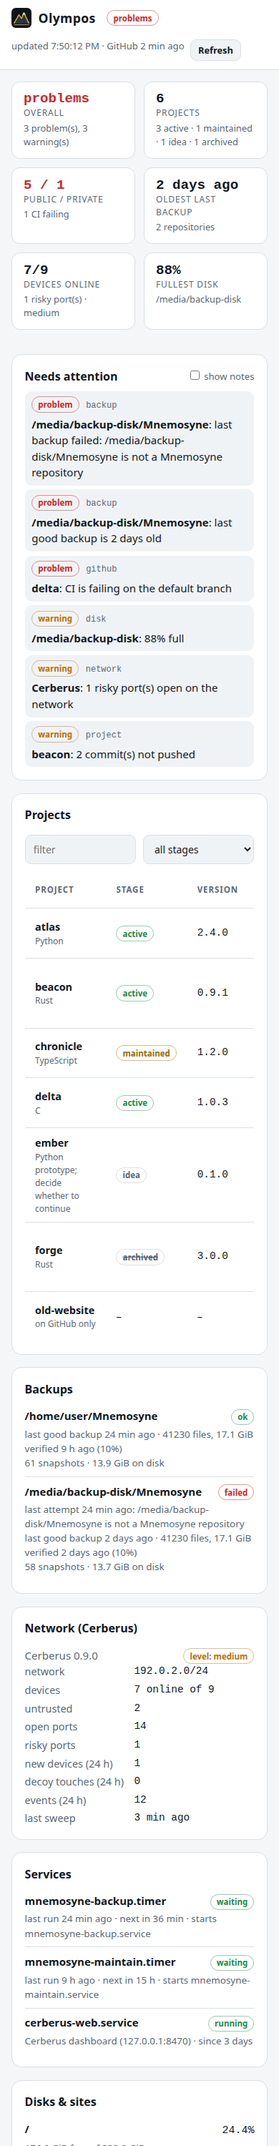
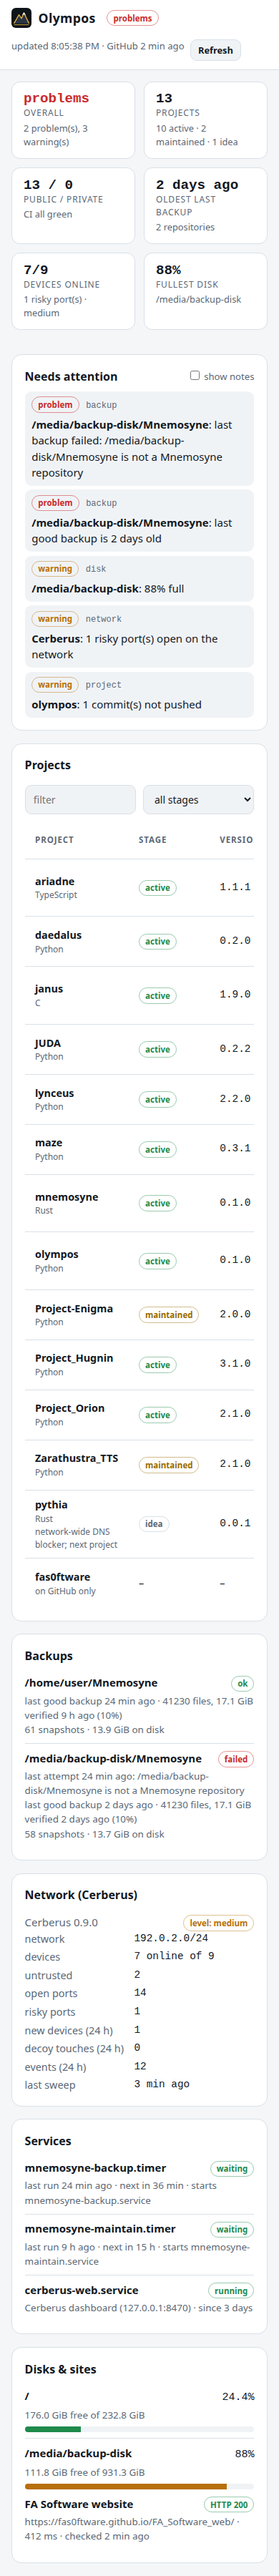
Demo data: the author's own public projects instead of made-up names
Names, languages, versions and roadmap items match the public repositories;
paths, times, backups and the network stay fictional. No project is shown
with a failing CI, so the README does not misreport a real repository.

diff --git a/olympos/demo.py b/olympos/demo.py
@@ -15,15 +15,15 @@ def _iso(now: datetime, **delta) -> str:
 def _project(now, name, lang, version, stage, commit, **extra):
     p = {"name": name, "path": f"/home/user/projects/{name}", "language": lang, "version": version, "branch": "main",
          "dirty": 0, "ahead": 0, "behind": 0, "upstream": True, "last_commit": _iso(now, **commit),
-         "last_subject": "Update README", "commits": 42, "remote": f"example/{name}", "next_step": "",
+         "last_subject": "Update README", "commits": 42, "remote": f"fas0ftware/{name}", "next_step": "",
          "stage": stage, "stage_source": "activity", "note": "", "errors": []}
     p.update(extra)
     return p
 
 
 def _repo(now, name, visibility="PUBLIC", ci="SUCCESS", **extra):
-    r = {"owner": "example", "name": name, "visibility": visibility, "archived": False,
-         "pushed_at": _iso(now, hours=5), "url": f"https://github.com/example/{name}", "ci": ci,
+    r = {"owner": "fas0ftware", "name": name, "visibility": visibility, "archived": False,
+         "pushed_at": _iso(now, hours=5), "url": f"https://github.com/fas0ftware/{name}", "ci": ci,
          "open_prs": 0, "open_issues": 0}
     r.update(extra)
     return r
@@ -32,23 +32,29 @@ def _repo(now, name, visibility="PUBLIC", ci="SUCCESS", **extra):
 def snapshot(now: datetime | None = None) -> dict:
     now = now or datetime.now(timezone.utc)
     s = Settings(backup_max_age_hours=3, check_max_age_days=3, disk_warn_percent=85)
+    # The author's own public projects (names, versions, roadmaps as on GitHub); paths, times
+    # and the machine around them are made up.
     projects = [
-        _project(now, "atlas", "Python", "2.4.0", "active", {"hours": 3},
-                 next_step="Export reports as PDF"),
-        _project(now, "beacon", "Rust", "0.9.1", "active", {"days": 2}, ahead=2, dirty=3,
-                 next_step="Windows support"),
-        _project(now, "chronicle", "TypeScript", "1.2.0", "maintained", {"days": 40},
-                 next_step="Phase 3: sync between devices"),
-        _project(now, "delta", "C", "1.0.3", "active", {"days": 1}),
-        _project(now, "ember", "Python", "0.1.0", "idea", {"days": 6}, remote="", upstream=False,
-                 stage_source="config", note="prototype; decide whether to continue"),
-        _project(now, "forge", "Rust", "3.0.0", "paused", {"days": 200}),
+        _project(now, "ariadne", "TypeScript", "1.1.1", "active", {"hours": 2},
+                 next_step="Phase 2: milestones (Category → Project → Sub-milestone, monthly/weekly/daily views)"),
+        _project(now, "daedalus", "Python", "0.2.0", "active", {"days": 1}),
+        _project(now, "janus", "C", "1.9.0", "active", {"days": 1},
+                 next_step="Integration as the scanning engine of Lynceus (via --json; Cerberus already uses it)"),
+        _project(now, "JUDA", "Python", "0.2.2", "active", {"days": 4}),
+        _project(now, "lynceus", "Python", "2.2.0", "active", {"days": 1}, next_step="Docker image"),
+        _project(now, "maze", "Python", "0.3.1", "active", {"days": 6}),
+        _project(now, "mnemosyne", "Rust", "0.1.0", "active", {"hours": 1},
+                 next_step="Packs: many small chunks in one file (fewer files on slow USB sticks and network shares)."),
+        _project(now, "olympos", "Python", "0.1.0", "active", {"minutes": 20}, ahead=1, dirty=2,
+                 next_step="History: keep a small daily record and draw how backups, CI and disks did over weeks."),
+        _project(now, "Project-Enigma", "Python", "2.0.0", "maintained", {"days": 35}),
+        _project(now, "Project_Hugnin", "Python", "3.1.0", "active", {"days": 2}),
+        _project(now, "Project_Orion", "Python", "2.1.0", "active", {"days": 2}),
+        _project(now, "Zarathustra_TTS", "Python", "2.1.0", "maintained", {"days": 20}),
+        _project(now, "pythia", "Rust", "0.0.1", "idea", {"hours": 3}, remote="", upstream=False,
+                 stage_source="config", note="network-wide DNS blocker; next project"),
     ]
-    repos = [
-        _repo(now, "atlas"), _repo(now, "beacon", open_prs=1), _repo(now, "chronicle", "PRIVATE"),
-        _repo(now, "delta", ci="FAILURE"), _repo(now, "forge", ci="", archived=True),
-        _repo(now, "old-website", ci=""),
-    ]
+    repos = [_repo(now, p["name"]) for p in projects if p["remote"]] + [_repo(now, "fas0ftware", ci="")]
     units = [
         {"name": "mnemosyne-backup.timer", "description": "Mnemosyne backup every hour", "load": "loaded",
          "active": "active", "sub": "waiting", "result": "success", "enabled": "enabled",
@@ -82,7 +88,7 @@ def snapshot(now: datetime | None = None) -> dict:
               "free": 189_000_000_000, "percent": 24.4},
              {"path": "/media/backup-disk", "mounted": True, "total": 1_000_000_000_000, "used": 880_000_000_000,
               "free": 120_000_000_000, "percent": 88.0}]
-    sites = [{"name": "Website", "url": "https://example.github.io/", "status": 200, "ms": 412, "error": "",
+    sites = [{"name": "FA Software website", "url": "https://fas0ftware.github.io/FA_Software_web/", "status": 200, "ms": 412, "error": "",
               "checked": _iso(now, minutes=2)}]
     local = {"projects": projects, "units": units, "backups": backups, "cerberus": cerberus, "cerberus_error": None,
              "disks": disks, "errors": []}

diff --git a/tests/test_olympos.py b/tests/test_olympos.py
@@ -209,10 +209,12 @@ def test_project_health_and_worst():
 
 def test_demo_snapshot_is_consistent():
     s = demo.snapshot(NOW)
-    assert s["level"] == "bad" and s["counts"]["projects"] == 6 and s["counts"]["ci_failing"] == 1
-    assert [r["name"] for r in s["remote_only"]] == ["old-website"]
-    forge = next(p for p in s["projects"] if p["name"] == "forge")
-    assert forge["stage"] == "archived", "archived on GitHub overrides the activity guess"
+    assert s["counts"]["projects"] == 13 and s["counts"]["ci_failing"] == 0
+    assert [r["name"] for r in s["remote_only"]] == ["fas0ftware"]
+    texts = {(f["subject"], f["level"]) for f in s["findings"]}
+    assert ("olympos", "warn") in texts and ("/media/backup-disk/Mnemosyne", "bad") in texts
+    pythia = next(p for p in s["projects"] if p["name"] == "pythia")
+    assert pythia["stage"] == "idea" and pythia["github"] is None
     json.dumps(s)
 
 
@@ -267,7 +269,7 @@ def test_web_serves_and_guards(server):
     status, headers, body = request(server, "/")
     assert status == 200 and b"Olympos" in body and "script-src 'self'" in headers["Content-Security-Policy"]
     status, _, body = request(server, "/api/state")
-    assert status == 200 and json.loads(body)["counts"]["projects"] == 6
+    assert status == 200 and json.loads(body)["counts"]["projects"] == 13
     assert request(server, "/api/state", headers={"Host": "evil.example"})[0] == 403
     assert request(server, "/static/../olympos/config.py")[0] == 404
     origin = {"Origin": f"http://127.0.0.1:{server}", "Content-Type": "application/json"}

diff --git a/README.md b/README.md
@@ -22,7 +22,8 @@ Named after the mountain where the Greek gods sat and watched over everything.
 
 </details>
 
-The screenshots use the built-in demo data (`--demo`), not anyone's real machine.
+The screenshots use the built-in demo data (`--demo`): the author's own public projects with their real
+versions and roadmaps, on a made-up machine (paths, times, backups and network are fictional).
 
 ## Contents
 
@@ -70,17 +71,18 @@ problems, so it can drive a status-bar indicator or a cron mail.
 
 ```text
 $ python -m olympos status --demo
-Olympos 0.1.0: BAD · 6 projects · 5 public / 1 private on GitHub · 3 problem(s), 3 warning(s)
+Olympos 0.1.0: BAD · 13 projects · 13 public / 0 private on GitHub · 2 problem(s), 3 warning(s)
 
   ✗ /media/backup-disk/Mnemosyne: last backup failed: /media/backup-disk/Mnemosyne is not a Mnemosyne repository
   ✗ /media/backup-disk/Mnemosyne: last good backup is 2 days old
-  ✗ delta: CI is failing on the default branch
   ! /media/backup-disk: 88% full
   ! Cerberus: 1 risky port(s) open on the network
-  ! beacon: 2 commit(s) not pushed
+  ! olympos: 1 commit(s) not pushed
 
-  atlas                2.4.0    active      ci ✓ public
-  beacon               0.9.1    active      3 changed 2 unpushed ci ✓ public
+  ariadne              1.1.1    active      ci ✓ public
+  daedalus             0.2.0    active      ci ✓ public
+  janus                1.9.0    active      ci ✓ public
+  JUDA                 0.2.2    active      ci ✓ public
   ...
 ```
 
